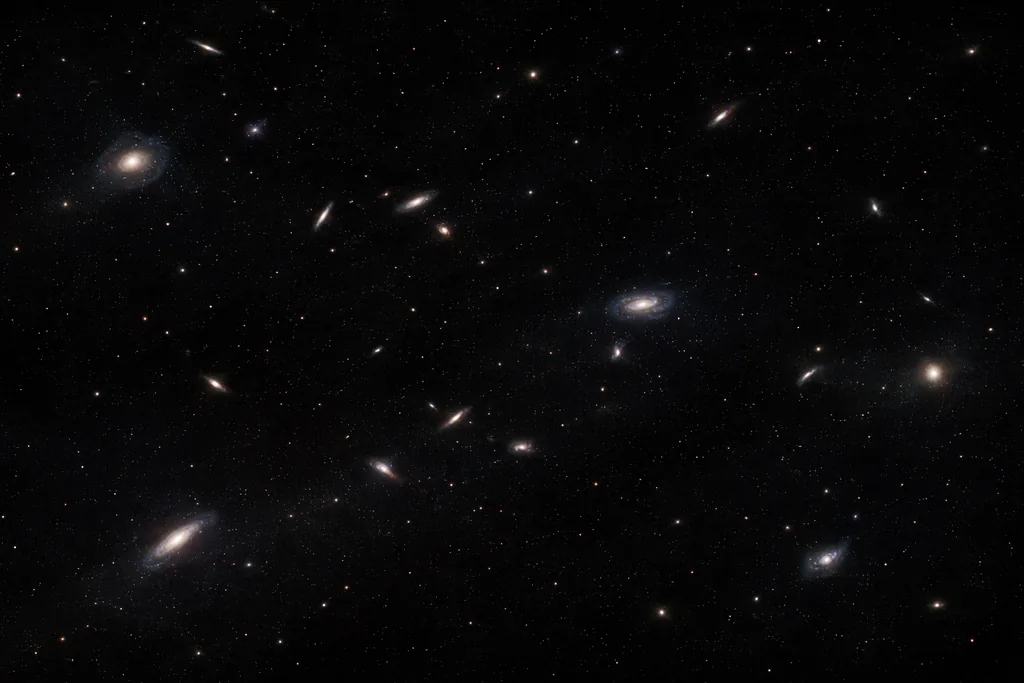
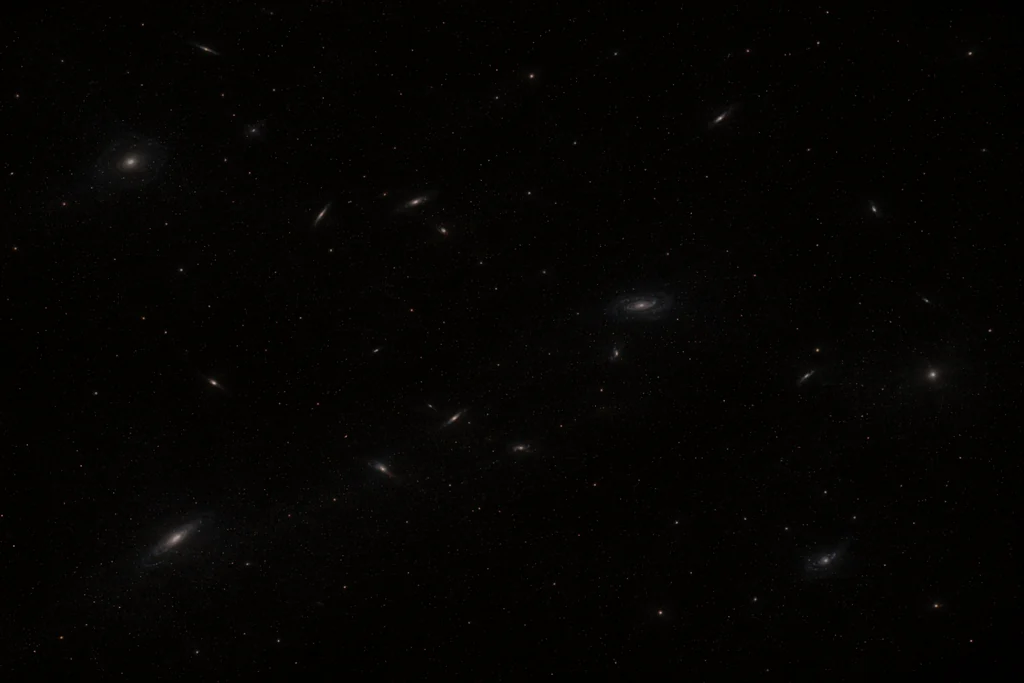
new_low_contrastbg

diff --git a/assets/css/styles.css b/assets/css/styles.css
@@ -23,7 +23,6 @@
   height: 100%;
   object-fit: cover;
   display: block;
-  filter: brightness(0.62) contrast(0.88) saturate(0.9);
 }
 
 /* Canvas background must stay fixed behind the whole page */
